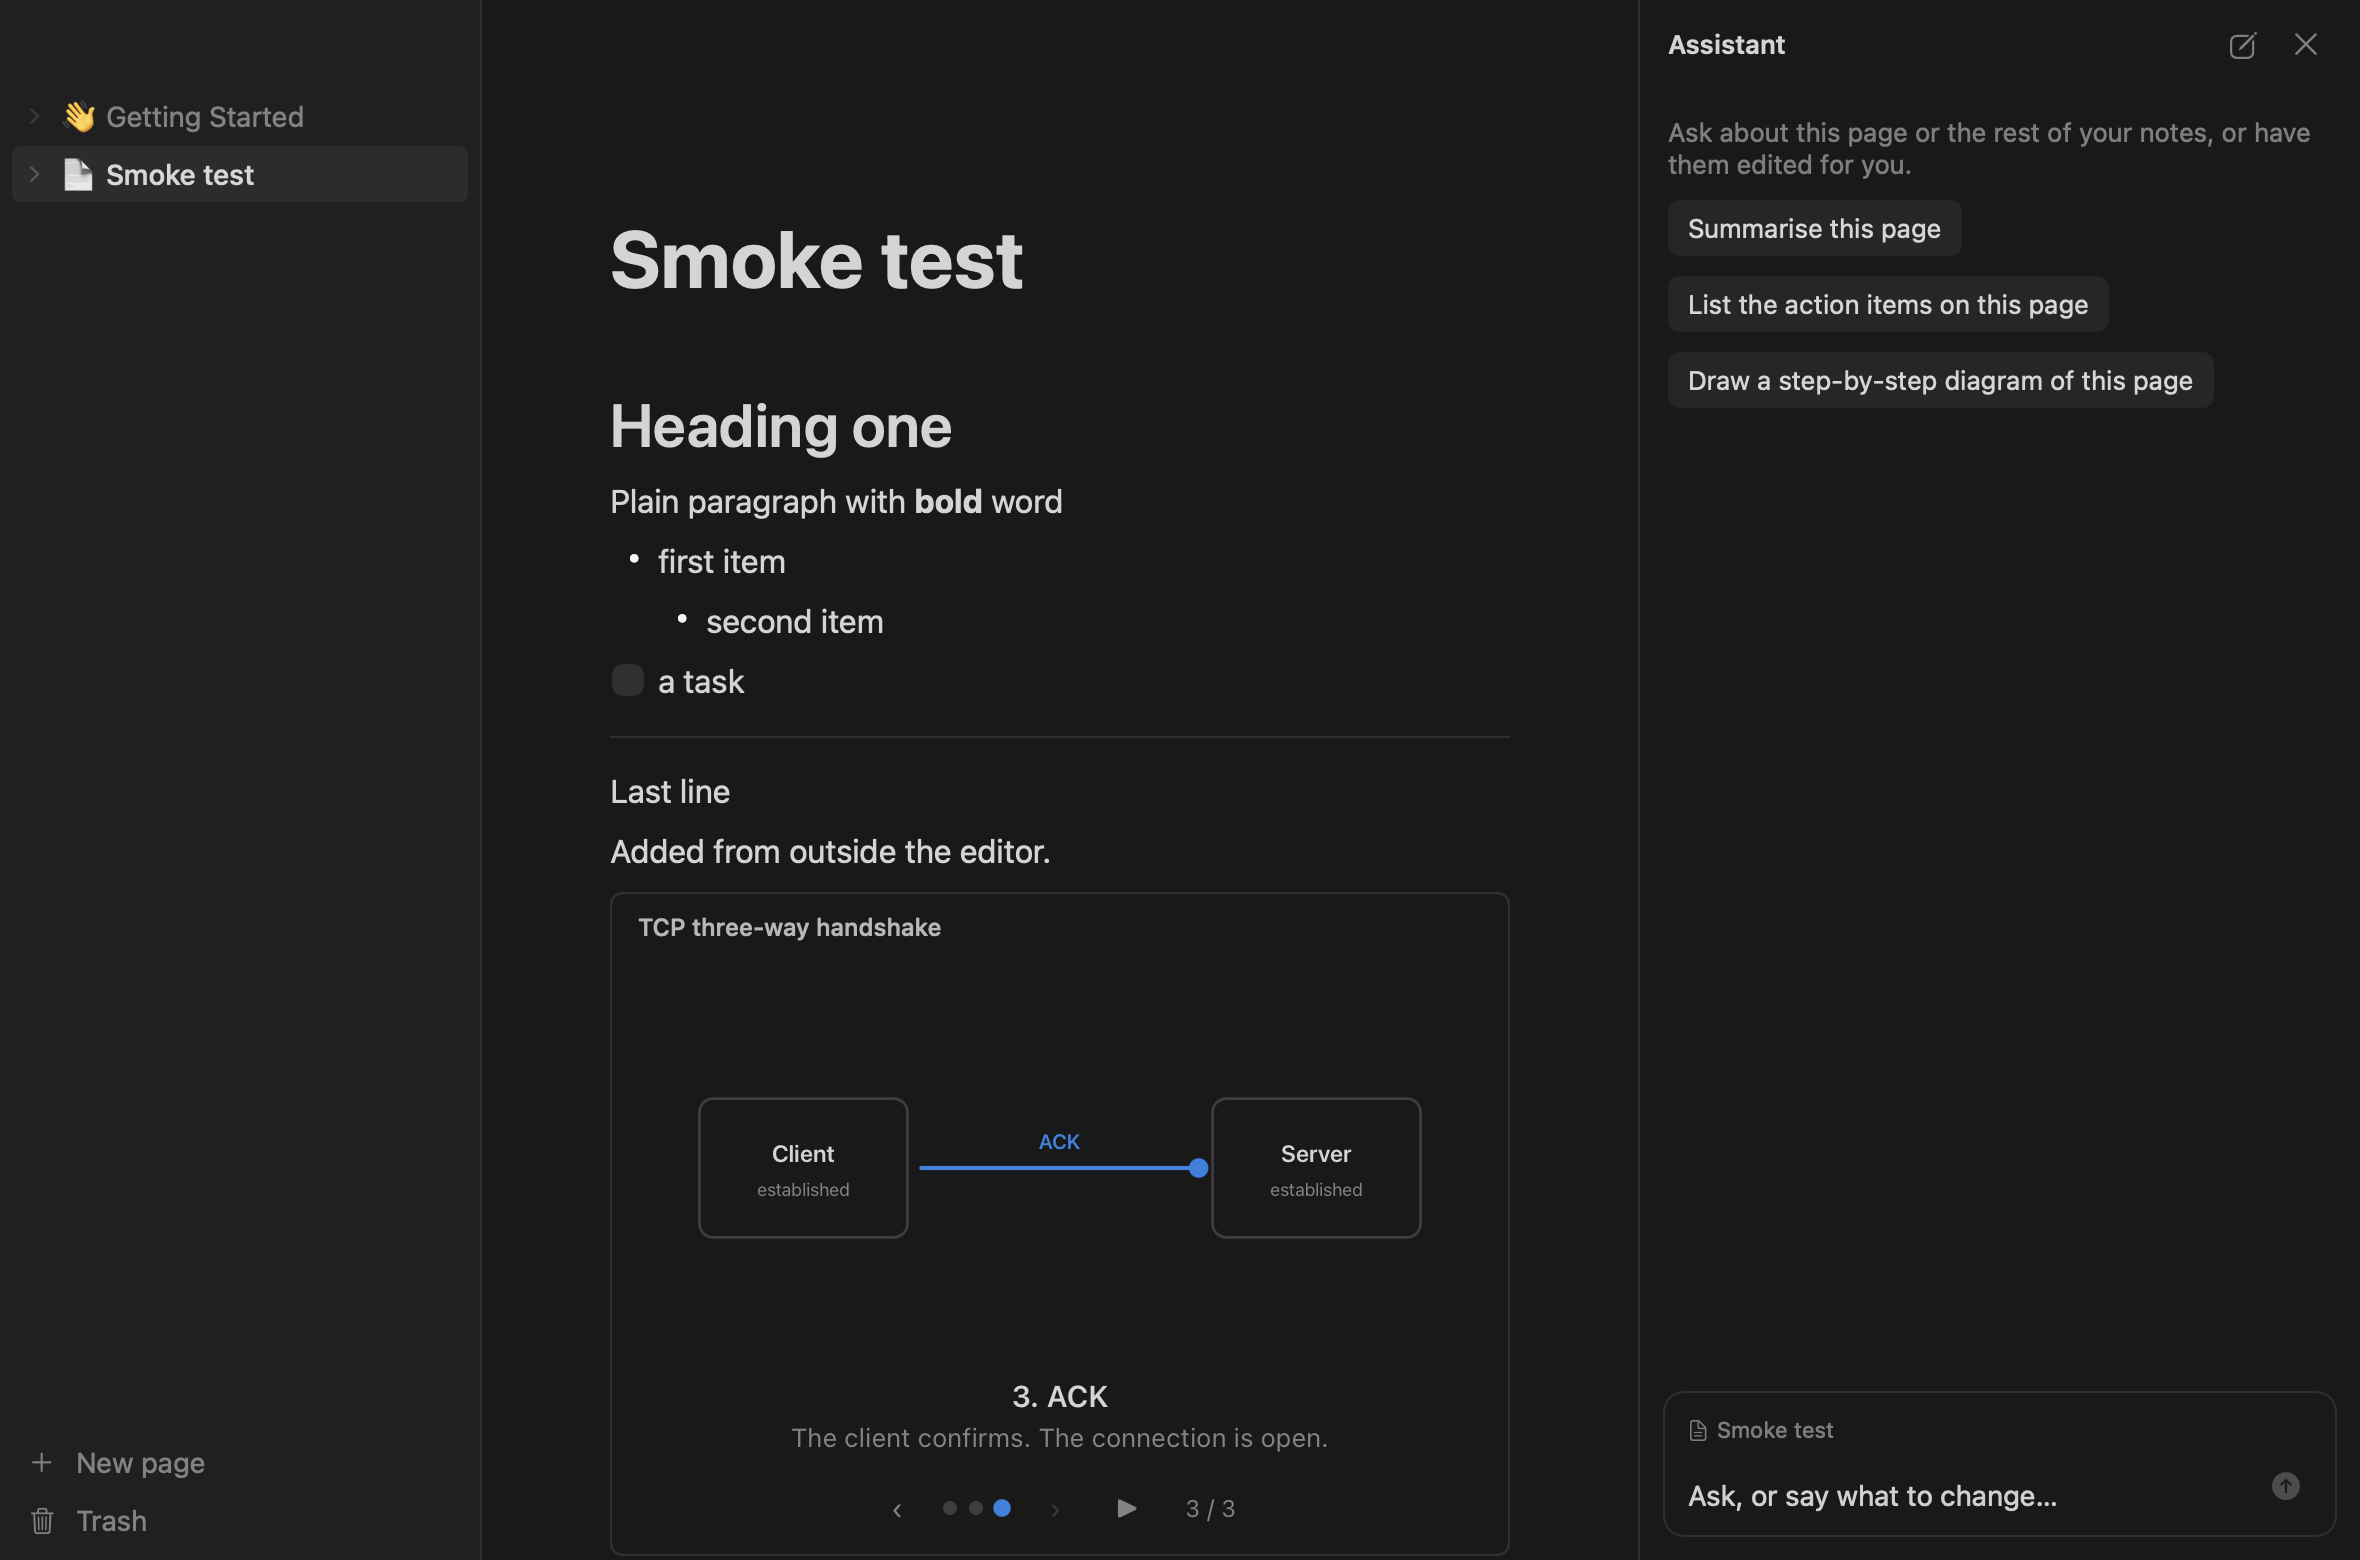
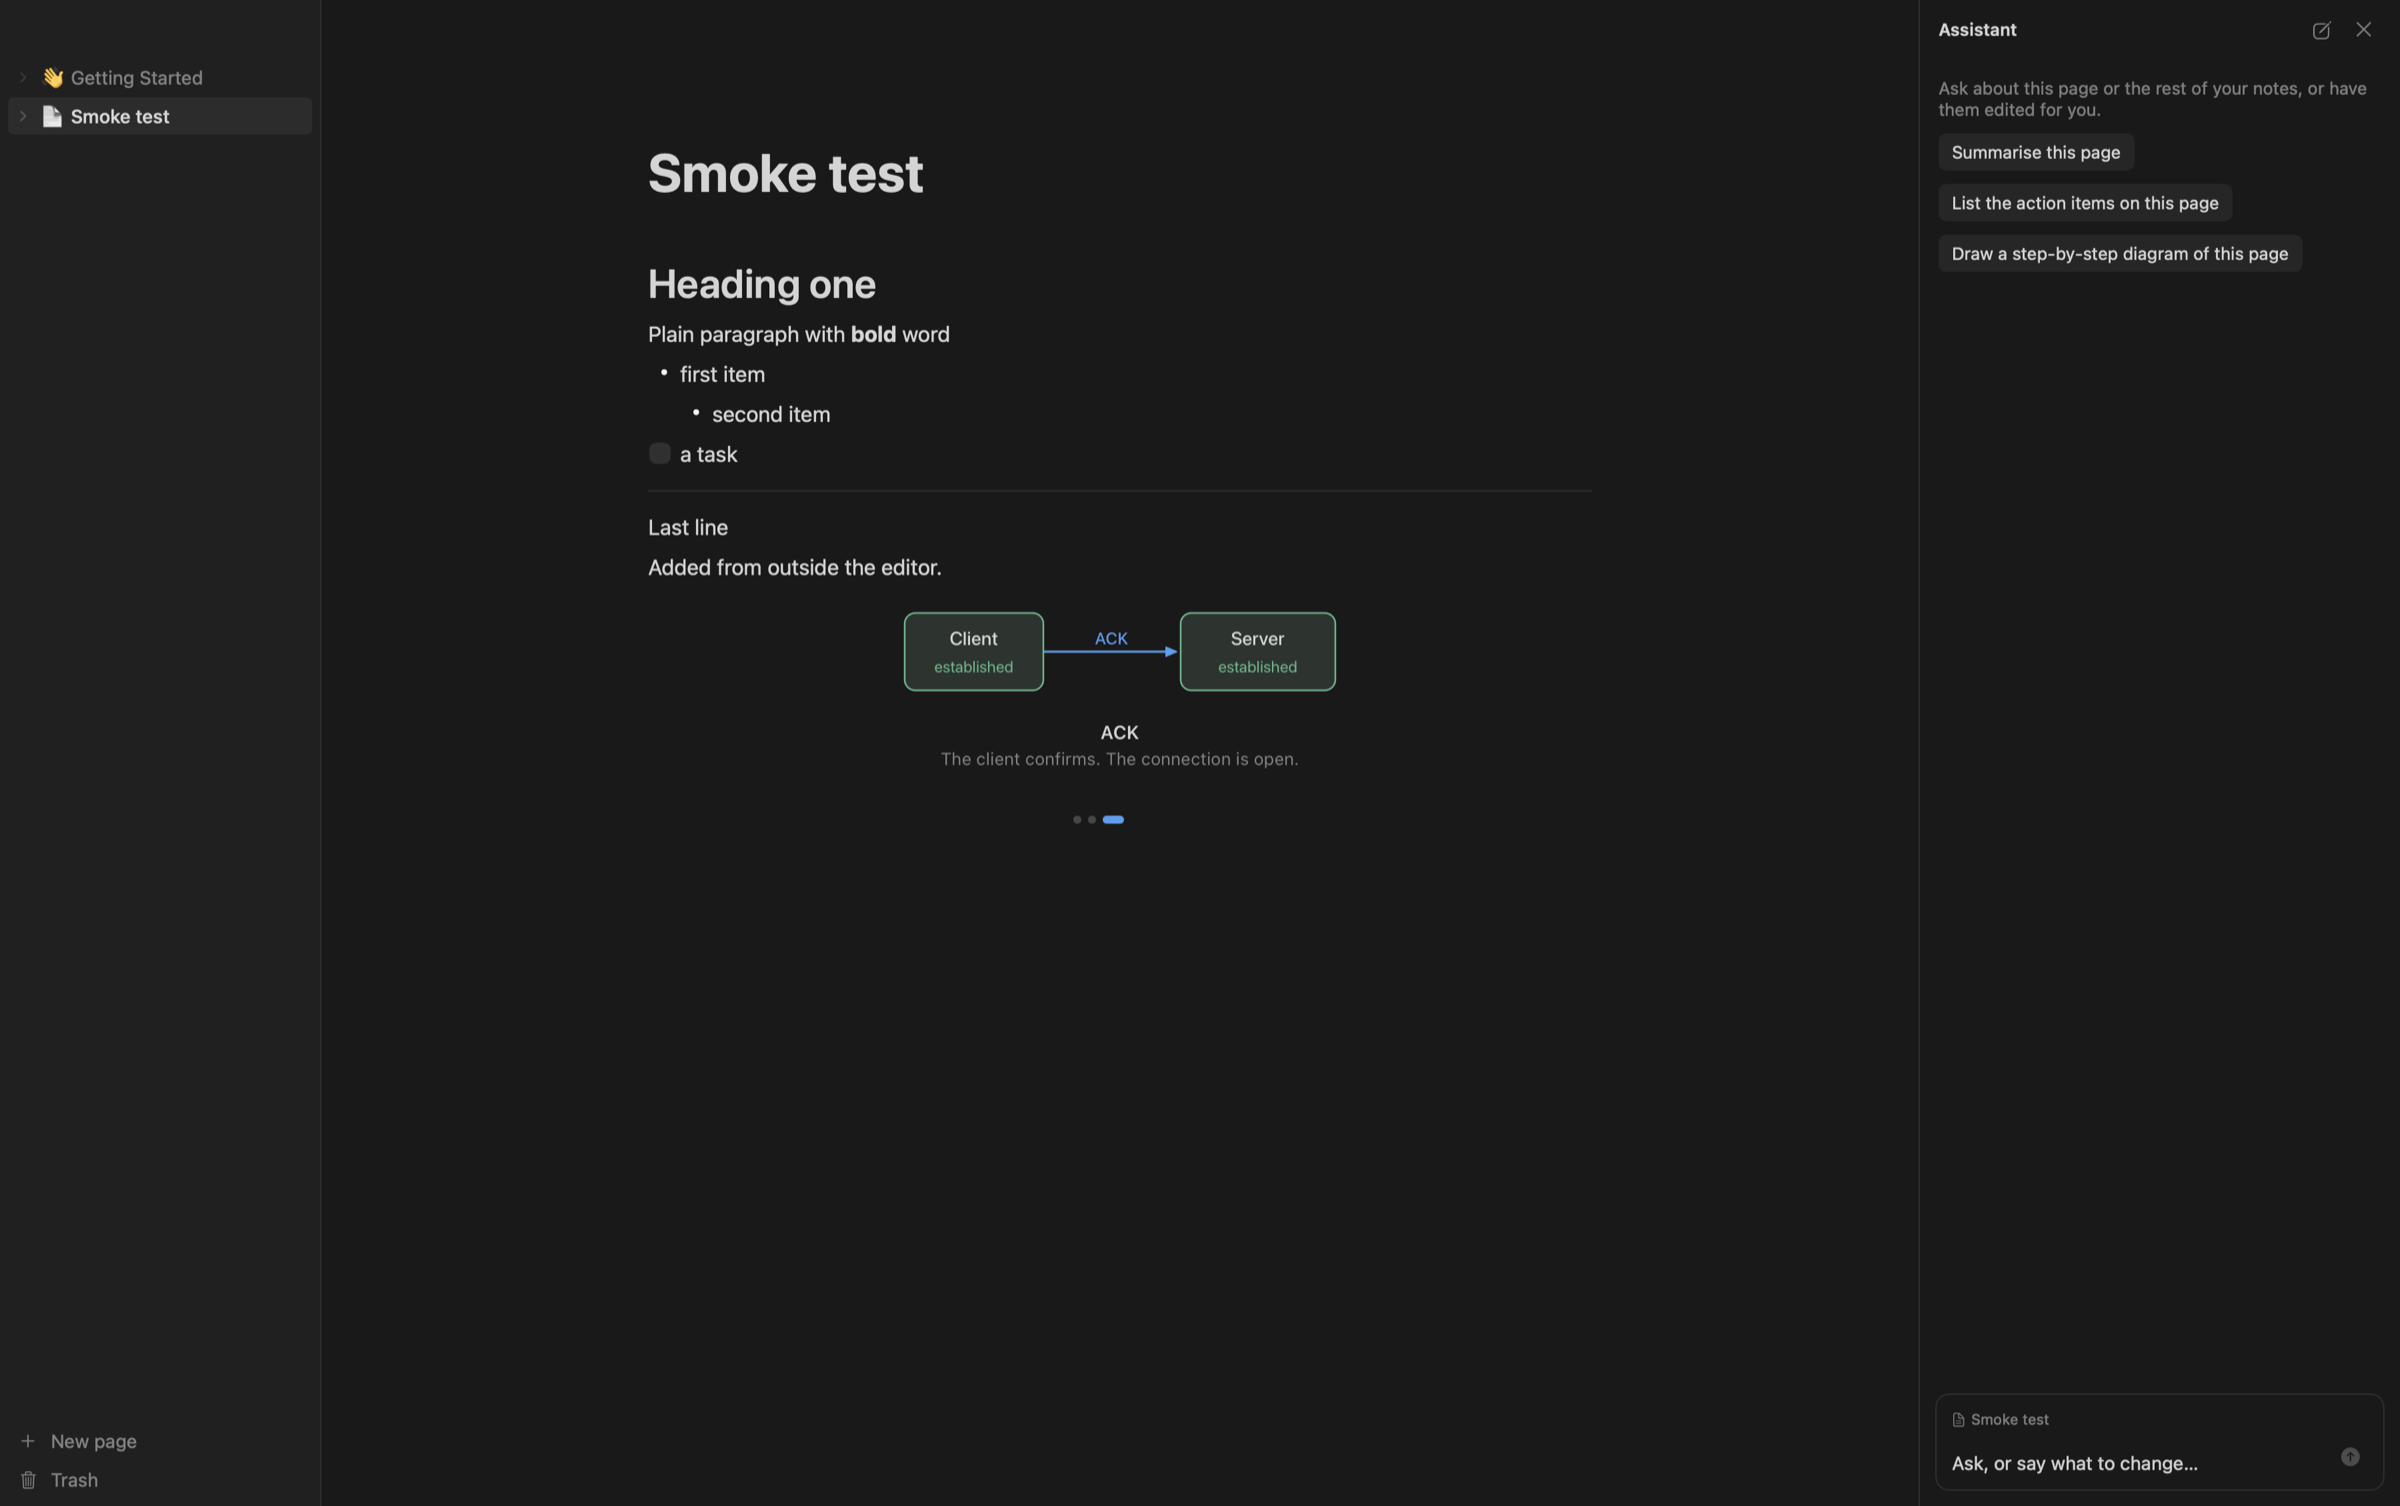
docs: describe Flow and how a diagram is drawn

diff --git a/docs/architecture.md b/docs/architecture.md
@@ -67,7 +67,7 @@ The app and `flotion-mcp` share one SQLite file in WAL mode. After a write, `flo
 |---|---|
 | `pages` | Tree of pages; `archived_at` is the Trash |
 | `blocks` | Flat ordered list per page with a `depth` column. Plain text lives in `plain`; `text` holds JSON runs only when a block has formatting |
-| `diagrams` | Diagram source, as a full HTML document or a JSON array of steps |
+| `diagrams` | Diagram source: Flow text, or for the older formats a full HTML document or a JSON array of steps |
 | `change_log` | Every write made by an AI or MCP client, with before and after, grouped into turns so a turn can be undone |
 | `blocks_fts`, `pages_fts` | FTS5 indexes kept in sync by triggers |
 
@@ -83,11 +83,33 @@ The app never signs in and never sees a credential. It runs the unmodified `clau
 
 `FlotionAITests` asserts each of these flags.
 
+## How a diagram is drawn
+
+A diagram is written in Flow, a line-per-statement language with no coordinates, colours or sizes: nodes, arrows, groups, and steps that say what changes. Everything between the source and the picture runs in `FlotionCore`, so the MCP server can reject a bad diagram at the tool call and the app knows a diagram's height before any web view exists.
+
+```mermaid
+flowchart LR
+    source["Flow source<br/>(stored in diagrams)"] --> parser["FlowParser<br/>model, or problems by line"]
+    parser --> states["states()<br/>the picture at each step"]
+    parser --> layout["FlowLayout<br/>positions, arrow routes"]
+    states --> scene["FlowScene<br/>resolved JSON"]
+    layout --> scene
+    scene --> player["Player in the web view<br/>switches between states"]
+```
+
+| Stage | What it decides |
+|---|---|
+| `FlowParser` | What the source means. Every problem is reported with its line and, where it can guess, the fix |
+| `FlowDiagram.states()` | What is visible, labelled, coloured and dimmed at each step. `tag`, `mark`, `set`, `hide` and `show` carry forward; `send` and `focus` last one step |
+| `FlowLayout` | Where things go, once, over everything the diagram ever shows, so nothing moves between steps. Layered: rank by longest path, order to avoid crossings, then align so chains are straight. Arrows run outline to outline |
+| `FlowScene` | The SVG paths and per-step states, as JSON |
+| The player (`DiagramTemplate`) | Nothing. It draws the scene and moves between states with CSS transitions |
+
 ## How diagrams are contained
 
-A diagram is LLM-authored HTML, so it is treated as untrusted:
+A Flow diagram is data, not code: its labels reach the page only as text, and the script that draws it is Flotion's own. The older `html` format (still available as an escape hatch) and `steps` format (still rendered, no longer created) carry LLM-authored markup, so every diagram document is treated as untrusted:
 
-1. `DiagramValidator` rejects external references before anything is stored, which also gives the model a useful error.
+1. `DiagramValidator` rejects Flow source with mistakes, and external references in HTML, before anything is stored, which also gives the model a useful error.
 2. `DiagramTemplate` adds a Content-Security-Policy of `default-src 'none'` to every document.
 3. The web view has a content rule that blocks every network request, a non-persistent data store, and refuses navigation.
 

diff --git a/README.md b/README.md
@@ -5,7 +5,7 @@ A minimal, native notes app for macOS in the style of Notion, built so that LLMs
 - **Just the core loop.** Nested pages, a block editor, and one SQLite file to keep them in.
 - **Native and fast.** SwiftUI and AppKit, no web runtime for the editor. A 5,000-block page opens in under 30 ms.
 - **MCP built in.** A bundled server lets Claude Code, Claude Desktop or any MCP client search, read and edit the workspace.
-- **Animated diagrams.** An LLM can create a step-through or free-form animated diagram with one tool call and place it in a page.
+- **Animated diagrams.** An LLM writes a diagram in Flow, a small text language: what exists and what changes at each step. Flotion lays it out, draws the arrows and animates it, so every diagram looks the same and none needs coordinates.
 - **An assistant in the app.** A side panel that knows the open page, and "Edit with AI" on selected text. It runs on your Claude subscription through Claude Code; there is no API key.
 
 ![A page with a step-through diagram](docs/images/page-with-diagram.png)
